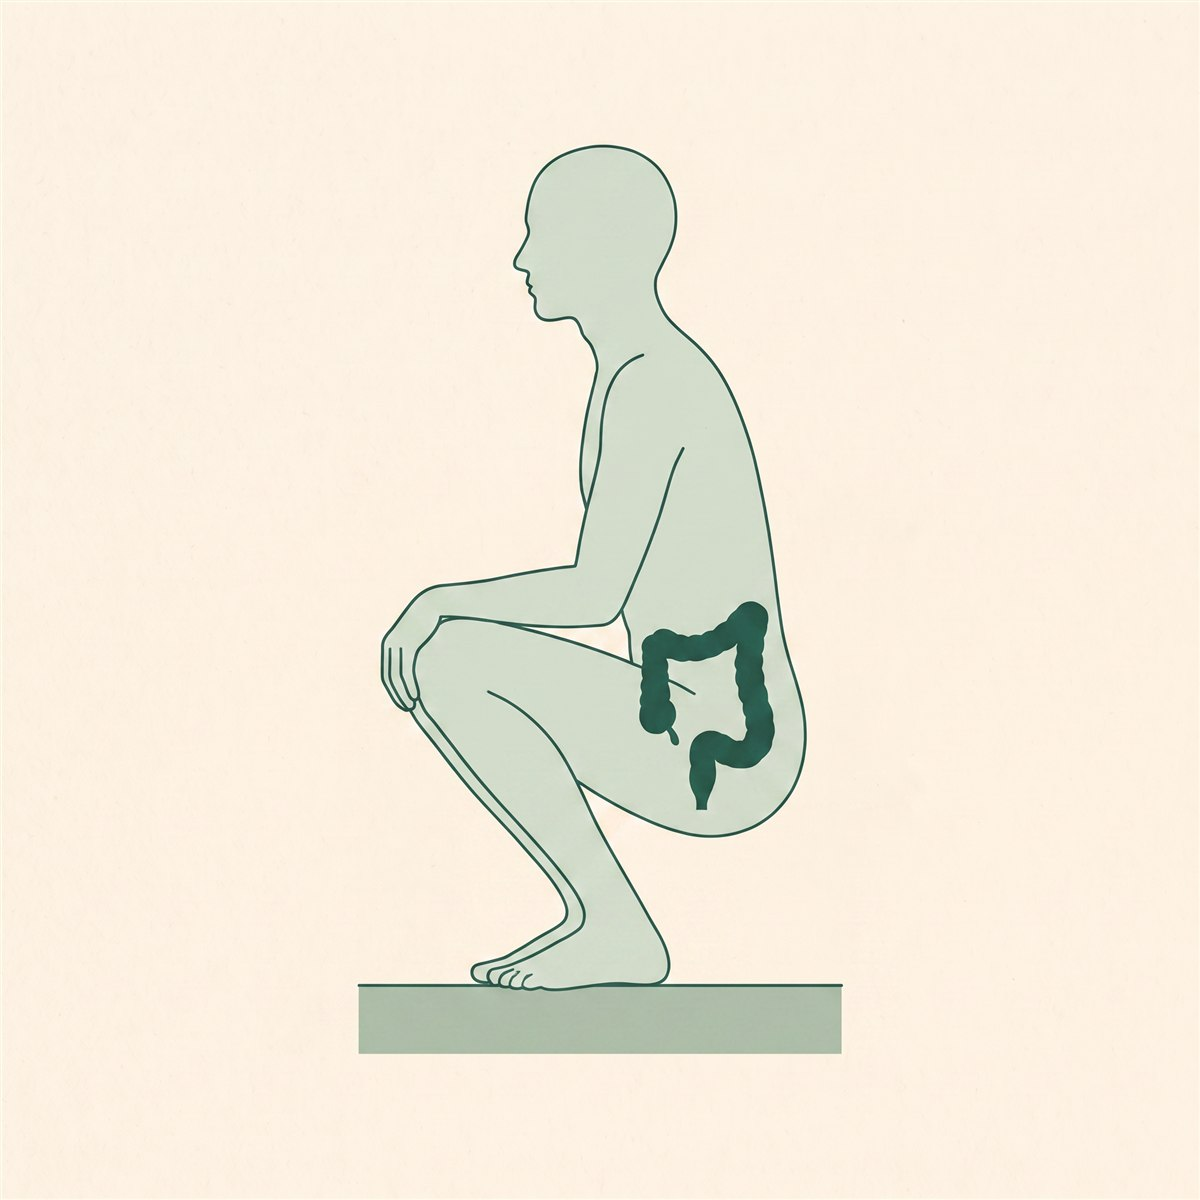
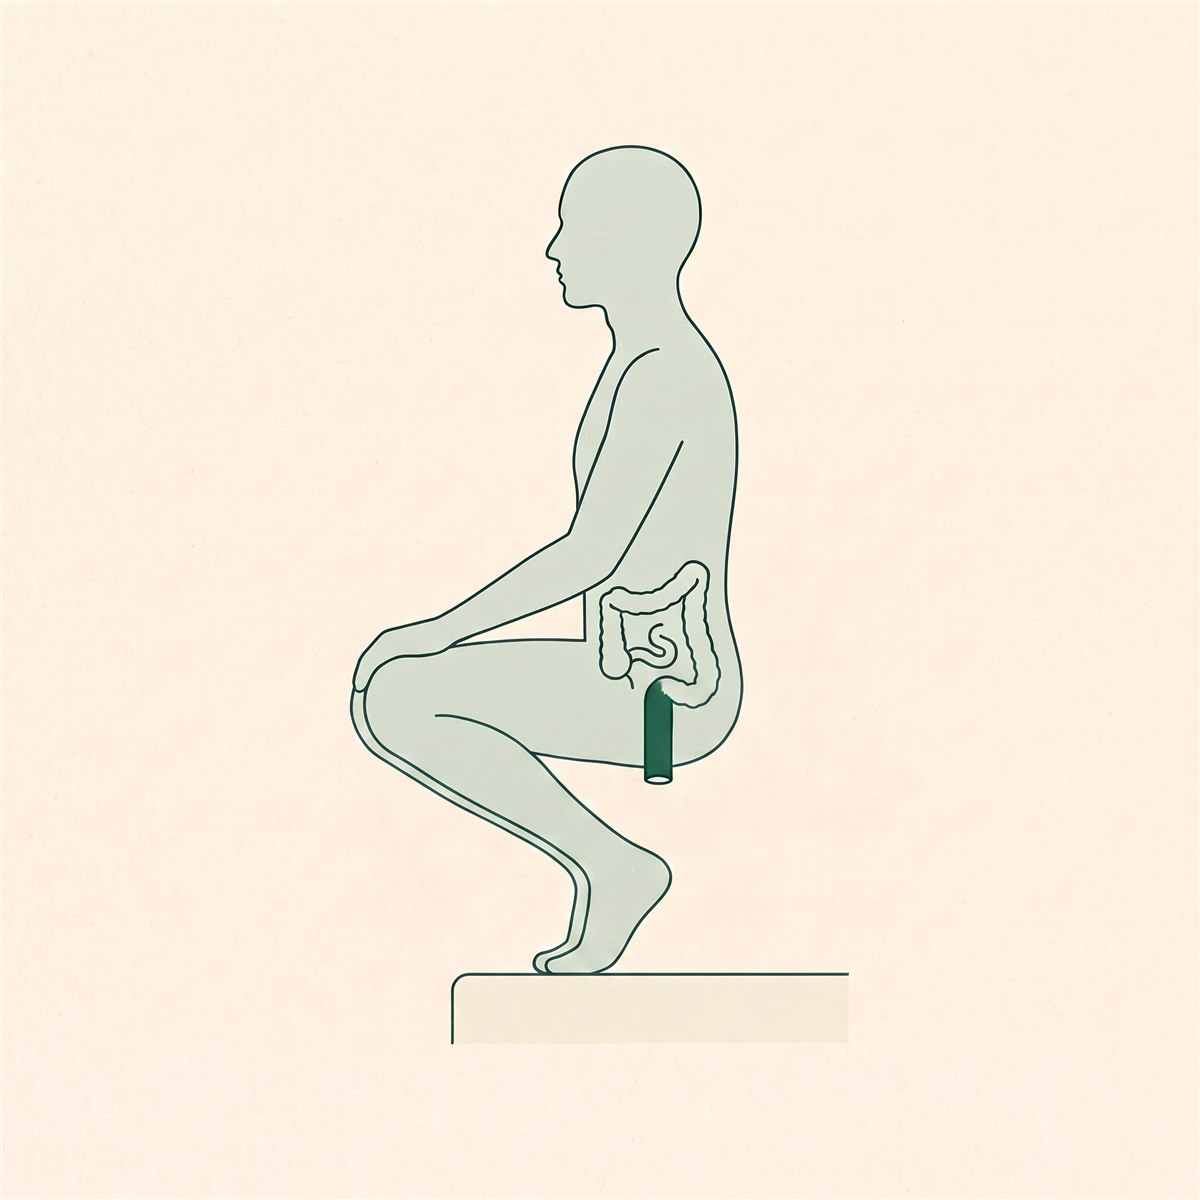
Make the 90-vs-35 diagram actually differ; real press mastheads
- Regenerated the sitting/squat comparison as a matched pair: sitting
  now shows a clearly pinched red hairpin fold at the exit channel,
  squatting shows the same intestine with a straight, open, green
  channel (previously both panels looked nearly identical)
- Press strip now uses the outlets' real mastheads cropped from the
  owner's article screenshots (ynet, Haaretz, TheMarker, Maariv)
  instead of styled text wordmarks

Claude-Session: https://claude.ai/code/session_01JnpbybXLCPRzgPzFn6v9g9

Changed region(s): [[0.2775, 0.1233, 0.7092, 0.8942]]

diff --git a/components/sections/PressStrip.tsx b/components/sections/PressStrip.tsx
@@ -1,21 +1,37 @@
-const PRESS_ITEMS = [
+import Image, { type StaticImageData } from "next/image";
+import haaretzLogo from "@/public/images/press/haaretz.png";
+import maarivLogo from "@/public/images/press/maariv.png";
+import themarkerLogo from "@/public/images/press/themarker.png";
+import ynetLogo from "@/public/images/press/ynet.png";
+
+type PressItem = {
+  outlet: string;
+  logo: StaticImageData;
+  headline: string;
+};
+
+const PRESS_ITEMS: PressItem[] = [
   {
     outlet: "TheMarker",
+    logo: themarkerLogo,
     headline:
       "אתם יושבים טוב? ככה באמת היינו אמורים לבלות בשירותים — פטנט גאוני ממציא מחדש את בית השימוש",
   },
   {
     outlet: "הארץ",
+    logo: haaretzLogo,
     headline:
       "יותר ויותר אנשים משוכנעים שהדרך שבה אנחנו עושים צרכים שגויה. פנינו לרופאים ולחסידי כריעה",
   },
   {
     outlet: "ynet",
+    logo: ynetLogo,
     headline:
       "הטעויות שאתם עושים בשירותים — שעלולות להזיק לבריאות: ישיבה ממושכת מגבירה את הסיכון לטחורים",
   },
   {
     outlet: "מעריב",
+    logo: maarivLogo,
     headline:
       "עשרות אלפי ישראלים לוקים בעצירות כל שנה — ואיך התנוחה הנכונה יכולה לעזור",
   },
@@ -31,10 +47,13 @@ export default function PressStrip() {
         <ul className="grid gap-8 sm:grid-cols-2 lg:grid-cols-4">
           {PRESS_ITEMS.map((item) => (
             <li key={item.outlet} className="border-s-2 border-amber ps-4">
-              <p className="font-serif text-2xl font-black text-ink">
-                {item.outlet}
-              </p>
-              <p className="mt-2 text-base leading-relaxed text-ink-soft">
+              <Image
+                src={item.logo}
+                alt={item.outlet}
+                className="h-9 w-auto object-contain object-right"
+                sizes="10rem"
+              />
+              <p className="mt-3 text-base leading-relaxed text-ink-soft">
                 ״{item.headline}״
               </p>
             </li>